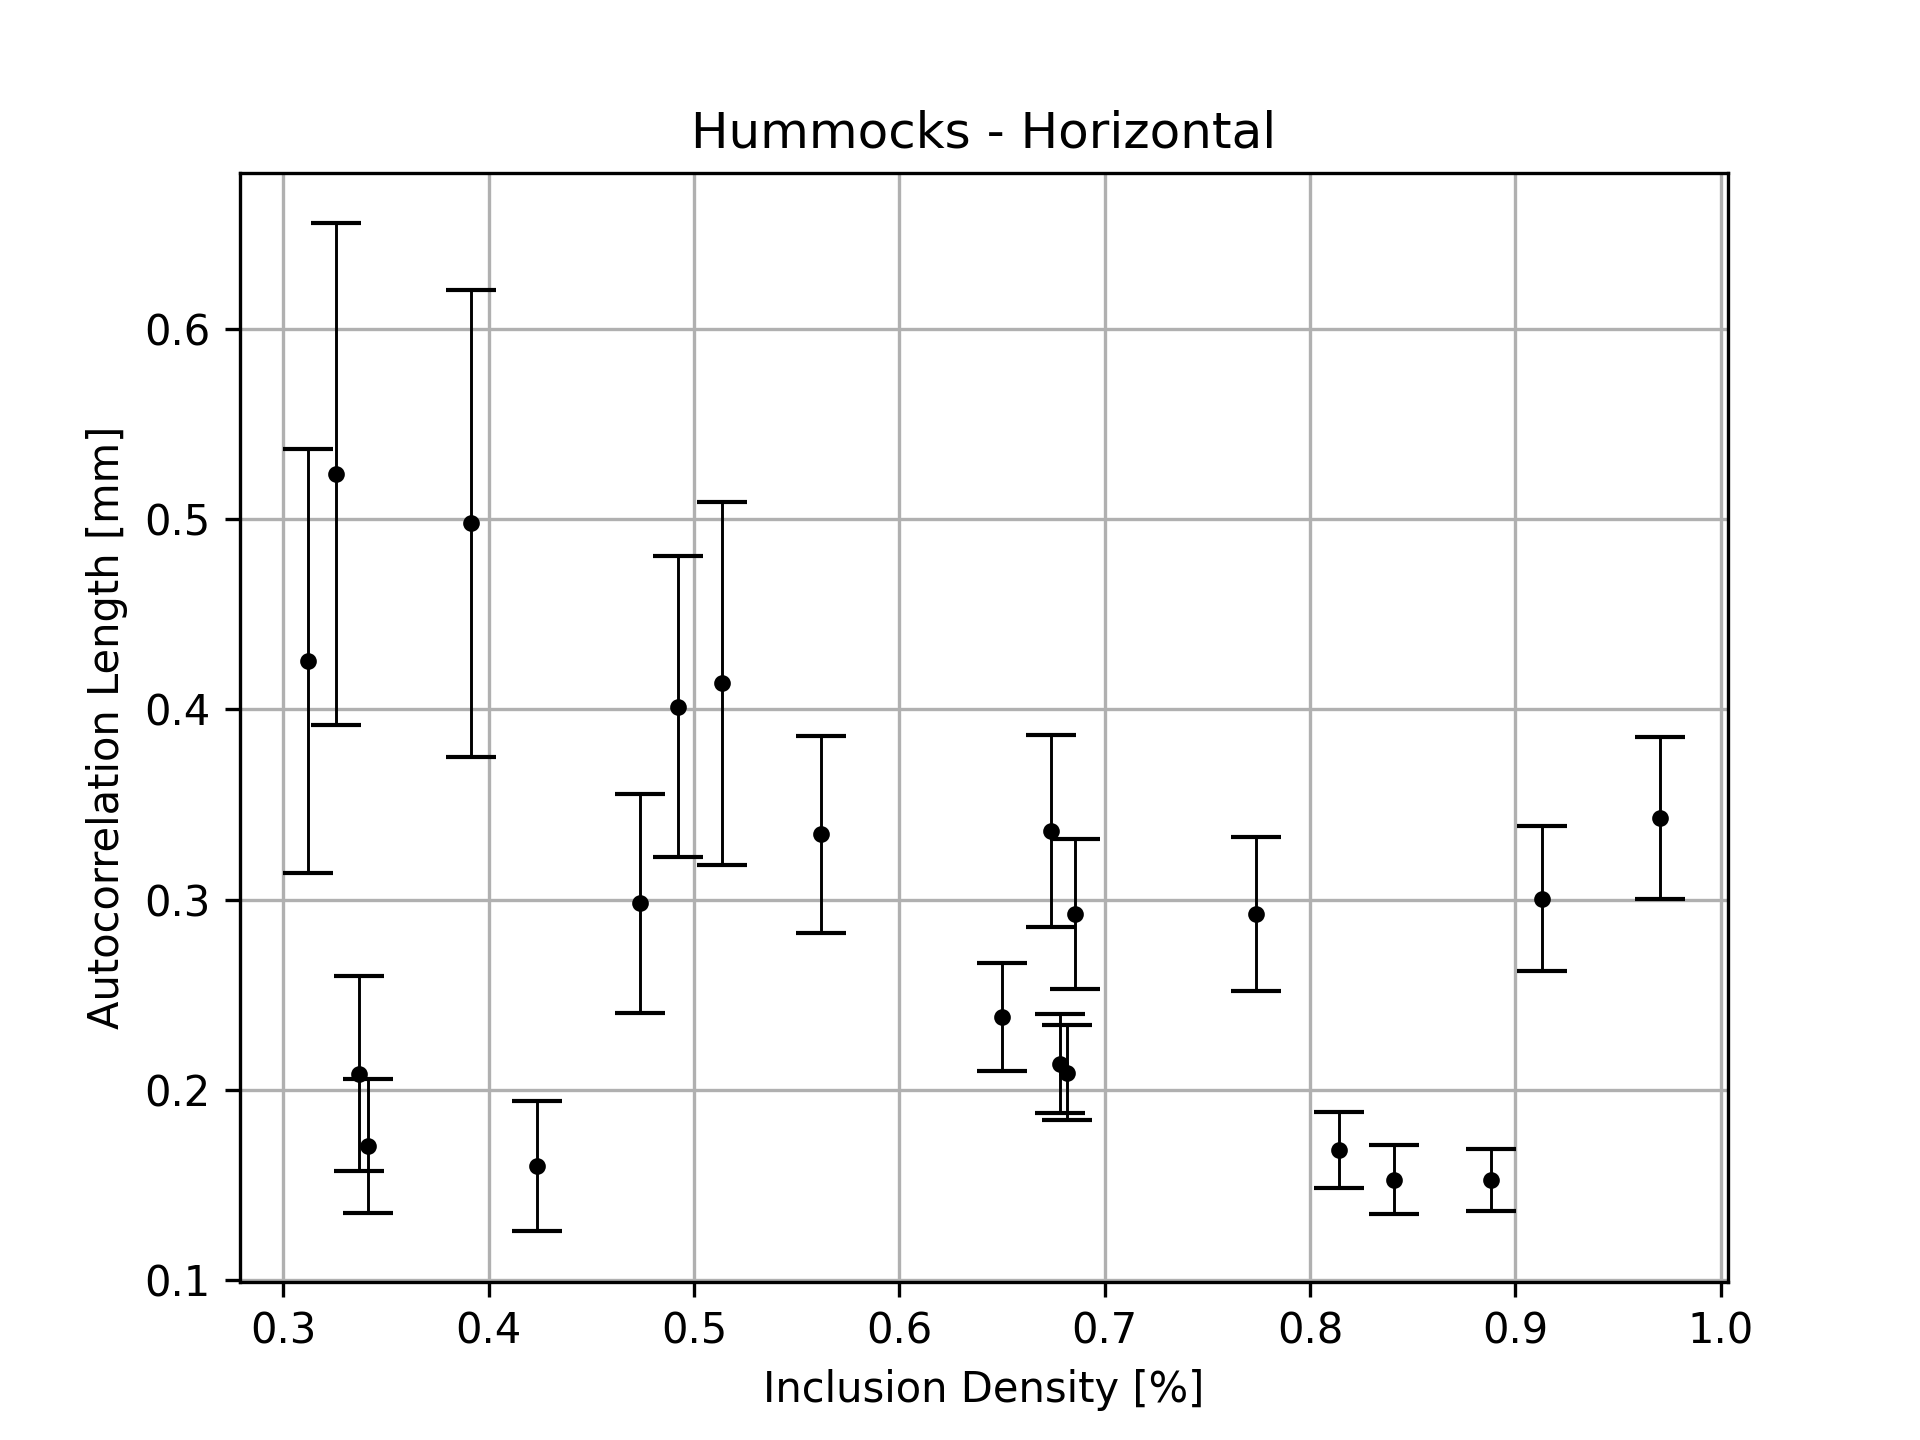
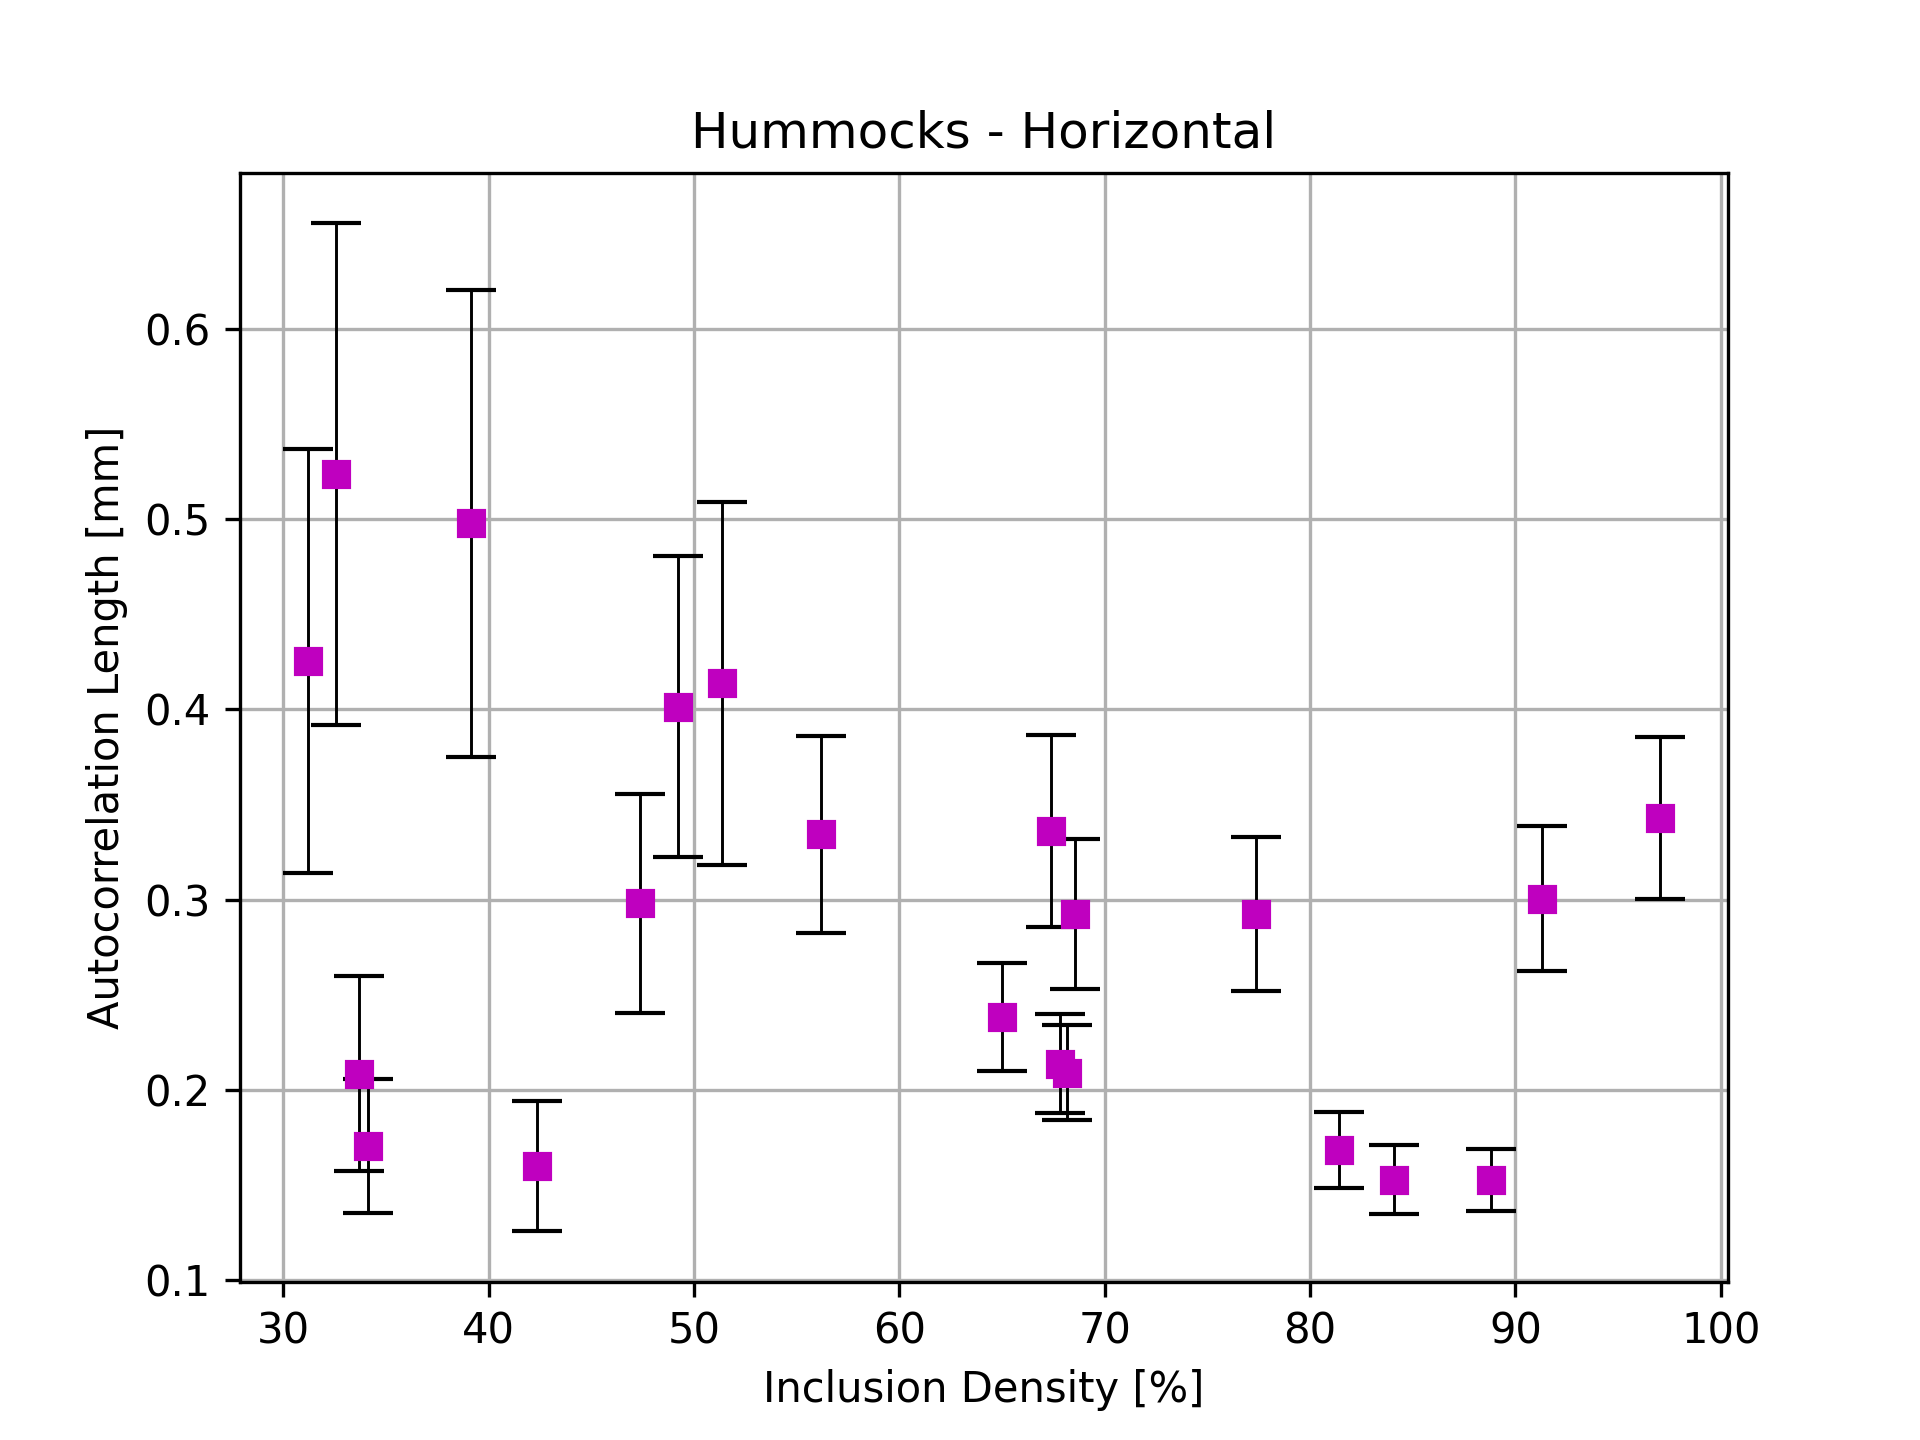
More plots

diff --git a/DensityPlot.py b/DensityPlot.py
@@ -32,7 +32,7 @@ def Density_plot(compdata,splitter,texts):
         sigmaV = np.reshape(setH[:,15:18],[sz])
         splBack = spl
 
-        plt.errorbar(rhoH, LH, sigmaH, ls = 'none', c='k', fmt='.', capsize=6, elinewidth=0.7, lw = 0.5)
+        plt.errorbar(rhoH*100, LH, sigmaH, ls = 'none', c='m',ecolor='k', fmt='s', capsize=6, elinewidth=0.7, lw = 0.5)
         plt.xlabel('Inclusion Density [%]')
         plt.ylabel('Autocorrelation Length [mm]')
         plt.title(tx + ' - ' + 'Horizontal')
@@ -41,7 +41,7 @@ def Density_plot(compdata,splitter,texts):
         #plt.show(block='True')
         plt.close()
 
-        plt.errorbar(rhoV, LV, sigmaV, ls = 'none', c='k', fmt='.', capsize=6, elinewidth=0.7, lw = 0.5)
+        plt.errorbar(rhoV*100, LV, sigmaV, ls = 'none', c='m',  ecolor='k', fmt='o', capsize=6, elinewidth=0.7, lw = 0.5)
         plt.xlabel('Inclusion Density [%]')
         plt.ylabel('Autocorrelation Length [mm]')
         plt.title(tx + ' - ' + 'Vertical')
@@ -50,3 +50,12 @@ def Density_plot(compdata,splitter,texts):
         #plt.show(block='True')
         plt.close()
 
+
+
+if __name__ == "__main__":
+
+    compdata = np.loadtxt('rhoplotdata.txt',delimiter=',')
+    splitter = [14,20,27,29,36]
+    funcnames = ["First Year Ice","Second Year Ice","Hummocks","Lead-Ice","Melt-Ponds"]
+
+    Density_plot(compdata=compdata,splitter=splitter,texts=funcnames)

diff --git a/Tester.py b/Tester.py
@@ -17,17 +17,17 @@ if __name__ == "__main__":
 
 #---------------------------------------------------------
 
-    fname = "images/20200220_221521.jpg"
+    fname = "images/hummock1_bot_7cm_1.jpg"
     fTypes = np.array(['Empirical','Exponential','Gaussian','Exp Root',"x-Power","x-Exponential"])
     fit = np.array([1,2,4,5])
 
-    clip, blurredClip = clipBlur(fname, x=1650, y=3000, marginX=1150, marginY=1000, sigma=0.25)
+    clip, blurredClip = clipBlur(fname, x=1800, y=2400, marginX=1400, marginY=1400, sigma=2)
     threshold = 0.65
-    conversion = 0.03461538461538462
+    conversion = 0.03857
     clip[blurredClip > threshold] = 0
 
-    #plt.imshow(clip, cmap='gray')
-    #plt.show()
+    plt.imshow(clip, cmap='gray')
+    plt.show(block=True)
 
     #clip[blurredClip <= threshold] = 1
 
@@ -35,7 +35,7 @@ if __name__ == "__main__":
     print(auflength)
     print(confint)
     print(functype)
-    print(fitness)
+    print(np.round_(-np.log(fitness),decimals=2))
     print(kvalue)
     print(xvalue)
     plot_acf2(auflength, fTypes[fit], plotdata, block = True, xmax = 2)

diff --git a/nonTranposed.py b/nonTranposed.py
@@ -161,7 +161,7 @@ for nfo, filename in enumerate(os.listdir(files)):
         lset_t[fileidx] = auflengthT
         sigmaset_t[fileidx] = uncertaintyT
     except KeyError:
-        print(f"{filename[0:-4]} is not a member of test..")
+        print(f"    {filename[0:-4]} is not a member of test set..")
         pass
 
     #print(RMSE)
